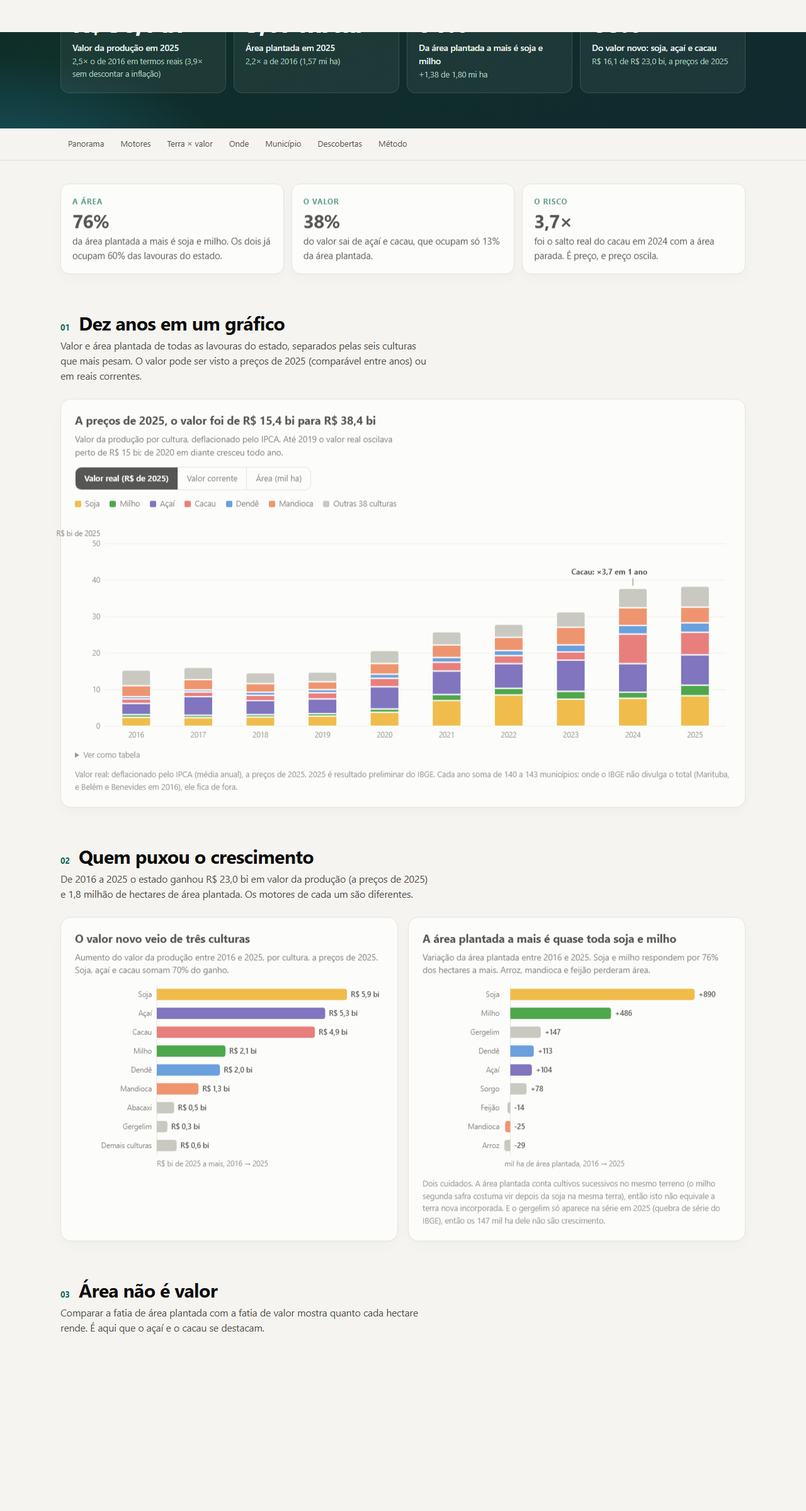
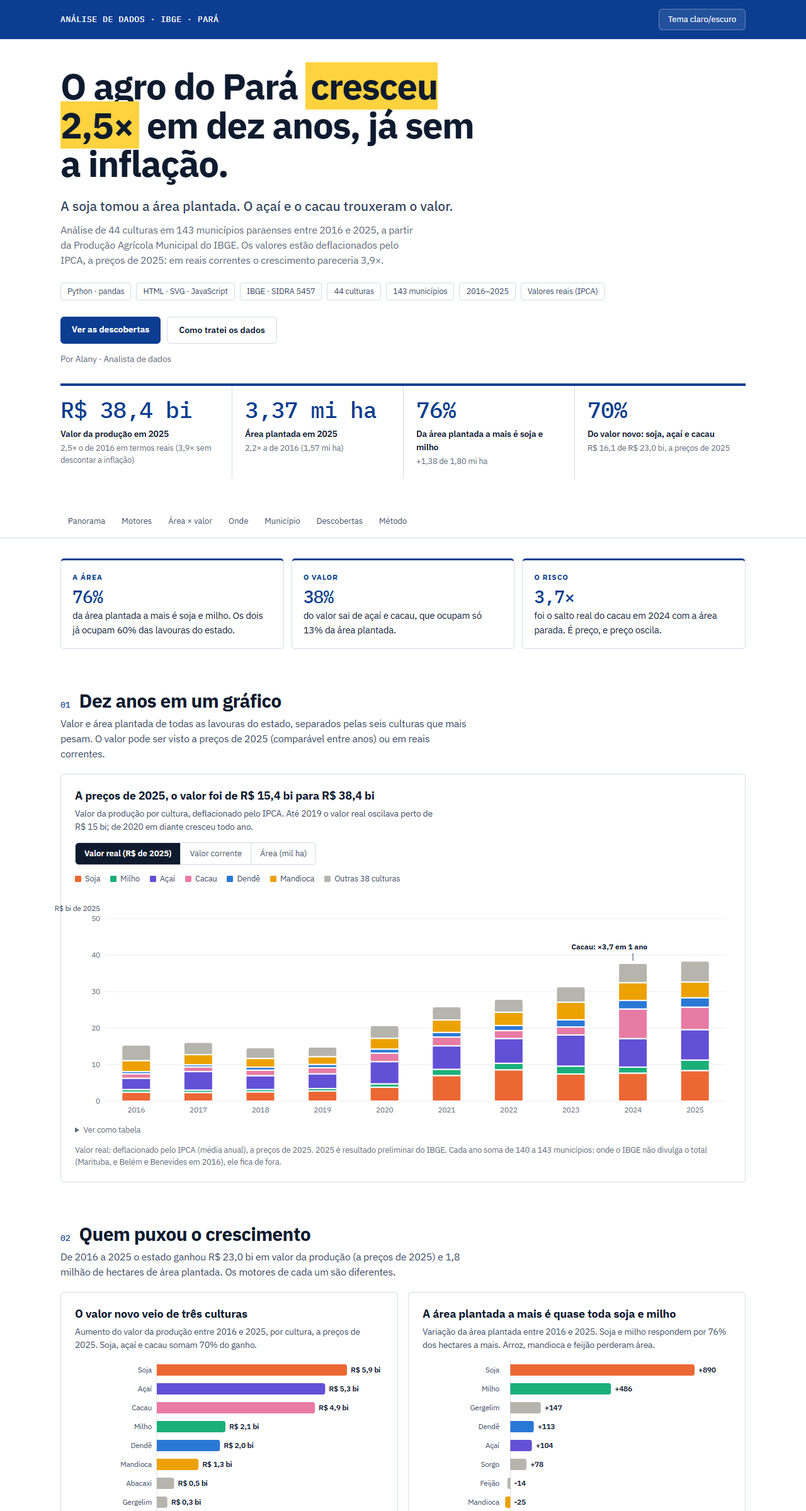
Novo design do dashboard (azul e branco, estilo jornal de dados)
Muda só o visual (cores, fontes, espaçamento); dados e textos iguais.
Refaz capa.png e docs/dashboard.png.

diff --git a/index.html b/index.html
@@ -11,59 +11,64 @@
 <meta property="og:image" content="https://lanybcr.github.io/Analise-de-dados-sobre-o-agro-no-estado-do-Para-/capa.png">
 <meta name="twitter:card" content="summary_large_image">
 <meta property="og:description" content="Dashboard interativo com dados do IBGE: 44 culturas, 143 municípios, 2016–2025. Valores deflacionados pelo IPCA.">
+<link rel="preconnect" href="https://fonts.googleapis.com">
+<link rel="preconnect" href="https://fonts.gstatic.com" crossorigin>
+<link href="https://fonts.googleapis.com/css2?family=IBM+Plex+Sans:wght@400;500;600;700&family=IBM+Plex+Mono:wght@400;500&display=swap" rel="stylesheet">
 <style>
 :root{
   color-scheme:light;
-  --bg:#f5f4f0; --surface:#ffffff; --ink:#0d0d0c; --ink2:#4d4c49; --muted:#6b6a66; --grid:#ebeae6; --line:#dddcd6; --neutral:#c9c8c2;
-  --accent:#0f6b57; --accent-soft:#e3f1ec;
-  --s-soja:#eda100; --s-milho:#008300; --s-acai:#4a3aa7; --s-cacau:#e34948; --s-dende:#2a78d6; --s-mandioca:#eb6834; --s-outras:#b5b4ad;
-  --tag-dado:#184f95; --tag-hip:#8a5300; --shadow:0 1px 2px #0000000a,0 8px 24px #0000000a;
+  --sans:"IBM Plex Sans",system-ui,-apple-system,"Segoe UI",Roboto,sans-serif; --mono:"IBM Plex Mono",ui-monospace,SFMono-Regular,Menlo,Consolas,monospace;
+  --bg:#ffffff; --surface:#ffffff; --ink:#0e1b2e; --ink2:#34475f; --muted:#5b6b80; --grid:#e7ecf3; --line:#d5dce6; --neutral:#a9bde0;
+  --accent:#0b3d91; --accent-soft:#e3ebf8; --cta:#0b3d91; --cta-hover:#072a66; --cta-ink:#ffffff; --hl:#ffd23f; --hl-ink:#0e1b2e;
+  --s-soja:#eb6834; --s-milho:#1baf7a; --s-acai:#6250d6; --s-cacau:#e87ba4; --s-dende:#2a78d6; --s-mandioca:#eda100; --s-outras:#b5b4ad;
+  --tag-dado:#184f95; --tag-hip:#8a5300; --shadow:none;
 }
 @media (prefers-color-scheme:dark){
   :root:where(:not([data-theme="light"])){
     color-scheme:dark;
-    --bg:#0e0e0d; --surface:#1a1a19; --ink:#ffffff; --ink2:#c3c2b7; --muted:#9a998f; --grid:#2a2a28; --line:#33332f; --neutral:#55544f;
-    --accent:#4fc3a1; --accent-soft:#12302a;
-    --s-soja:#c98500; --s-milho:#008300; --s-acai:#9085e9; --s-cacau:#e66767; --s-dende:#3987e5; --s-mandioca:#d95926; --s-outras:#5e5d58;
-    --tag-dado:#86b6ef; --tag-hip:#f0b95a; --shadow:0 1px 2px #0006,0 8px 24px #0004;
+    --bg:#0a1220; --surface:#111c2e; --ink:#ffffff; --ink2:#b9c6d8; --muted:#8a9ab0; --grid:#1e2a3d; --line:#2a3950; --neutral:#4b5d78;
+    --accent:#8fb3f5; --accent-soft:#16264a; --cta:#8fb3f5; --cta-hover:#b3cdfa; --cta-ink:#0a1220; --hl:#ffd23f; --hl-ink:#0e1b2e;
+    --s-soja:#d95926; --s-milho:#199e70; --s-acai:#9085e9; --s-cacau:#d55181; --s-dende:#3987e5; --s-mandioca:#c98500; --s-outras:#5e5d58;
+    --tag-dado:#86b6ef; --tag-hip:#f0b95a; --shadow:none;
   }
 }
 :root[data-theme="dark"]{
   color-scheme:dark;
-  --bg:#0e0e0d; --surface:#1a1a19; --ink:#ffffff; --ink2:#c3c2b7; --muted:#9a998f; --grid:#2a2a28; --line:#33332f; --neutral:#55544f;
-  --accent:#4fc3a1; --accent-soft:#12302a;
-  --s-soja:#c98500; --s-milho:#008300; --s-acai:#9085e9; --s-cacau:#e66767; --s-dende:#3987e5; --s-mandioca:#d95926; --s-outras:#5e5d58;
-  --tag-dado:#86b6ef; --tag-hip:#f0b95a; --shadow:0 1px 2px #0006,0 8px 24px #0004;
+  --bg:#0a1220; --surface:#111c2e; --ink:#ffffff; --ink2:#b9c6d8; --muted:#8a9ab0; --grid:#1e2a3d; --line:#2a3950; --neutral:#4b5d78;
+  --accent:#8fb3f5; --accent-soft:#16264a; --cta:#8fb3f5; --cta-hover:#b3cdfa; --cta-ink:#0a1220; --hl:#ffd23f; --hl-ink:#0e1b2e;
+  --s-soja:#d95926; --s-milho:#199e70; --s-acai:#9085e9; --s-cacau:#d55181; --s-dende:#3987e5; --s-mandioca:#c98500; --s-outras:#5e5d58;
+  --tag-dado:#86b6ef; --tag-hip:#f0b95a; --shadow:none;
 }
 *{box-sizing:border-box}
 html{-webkit-text-size-adjust:100%;scroll-behavior:smooth;scroll-padding-top:64px}
-body{margin:0;background:var(--bg);color:var(--ink);font:15px/1.55 system-ui,-apple-system,"Segoe UI",Roboto,sans-serif}
+body{margin:0;background:var(--bg);color:var(--ink);font:15px/1.55 var(--sans)}
 a{color:inherit}
 .wrap{max-width:1120px;margin:0 auto;padding:0 16px}
 b,strong{font-weight:650}
 
-.hero{background:radial-gradient(900px 420px at 88% -10%,#2f7d63 0,transparent 60%),radial-gradient(700px 380px at 0% 110%,#1c5a6b 0,transparent 55%),linear-gradient(160deg,#0a211d,#0f2f29 60%,#102a2f);color:#f3f5f2;padding:28px 0 56px}
-.hero .top{display:flex;justify-content:space-between;align-items:center;gap:12px;margin-bottom:56px}
-.brand{font-size:12.5px;letter-spacing:.07em;text-transform:uppercase;color:#a9c9bd;font-weight:600}
-.btn{font:inherit;font-size:13px;color:#dfece6;background:#ffffff14;border:1px solid #ffffff2e;border-radius:999px;padding:6px 14px;cursor:pointer}
-.btn:hover{background:#ffffff26}
-.btn:focus-visible,select:focus-visible,.nav a:focus-visible,.cta:focus-visible,.seg button:focus-visible{outline:2px solid #7fd8bd;outline-offset:2px}
-.hero h1{font-size:clamp(32px,5.8vw,60px);line-height:1.04;letter-spacing:-.03em;margin:0 0 20px;font-weight:760;max-width:17ch}
-.hero h1 em{font-style:normal;color:#7fd8bd}
-.hero .lede{font-size:clamp(17px,2.2vw,21px);color:#d6e6df;max-width:58ch;margin:0 0 10px;font-weight:500}
-.hero .lede2{font-size:15.5px;color:#a9c9bd;max-width:62ch;margin:0 0 24px}
+.hero{background:var(--bg);color:var(--ink);padding:0 0 44px}
+.hero .top{display:flex;justify-content:space-between;align-items:center;gap:12px;margin-bottom:44px;padding:14px 0;background:#0b3d91;color:#fff;box-shadow:0 0 0 100vmax #0b3d91;clip-path:inset(0 -100vmax)}
+.brand{font-family:var(--mono);font-size:12.5px;letter-spacing:.07em;text-transform:uppercase;color:#fff;font-weight:500}
+.btn{font:inherit;font-size:13px;color:#fff;background:#ffffff1a;border:1px solid #ffffff4d;border-radius:6px;padding:6px 14px;cursor:pointer}
+.btn:hover{background:#ffffff33}
+.btn:focus-visible,select:focus-visible,.nav a:focus-visible,.cta:focus-visible,.seg button:focus-visible{outline:2px solid var(--accent);outline-offset:2px}
+.hero h1{font-size:clamp(32px,5.6vw,58px);line-height:1.06;letter-spacing:-.025em;margin:0 0 20px;font-weight:700;max-width:20ch}
+.hero h1 em{font-style:normal;background:var(--hl);color:var(--hl-ink);padding:0 .14em}
+.hero .lede{font-size:clamp(17px,2.2vw,21px);color:var(--ink2);max-width:58ch;margin:0 0 10px;font-weight:500}
+.hero .lede2{font-size:15.5px;color:var(--muted);max-width:62ch;margin:0 0 24px}
 .chips{display:flex;flex-wrap:wrap;gap:8px;margin:0 0 26px;padding:0;list-style:none}
-.chips li{font-size:12.5px;color:#cfe3da;background:#ffffff12;border:1px solid #ffffff22;border-radius:999px;padding:3px 12px}
-.ctas{display:flex;flex-wrap:wrap;gap:10px;margin-bottom:44px}
-.cta{display:inline-block;text-decoration:none;font-weight:650;font-size:14px;border-radius:10px;padding:10px 18px}
-.cta.p{background:#7fd8bd;color:#062018}.cta.p:hover{background:#9be6cf}
-.cta.s{border:1px solid #ffffff40;color:#eef6f2}.cta.s:hover{background:#ffffff14}
-.by{font-size:13.5px;color:#a9c9bd;margin:-30px 0 32px}
-.kpis{display:grid;grid-template-columns:repeat(4,1fr);gap:12px}
-.kpi{background:#ffffff0f;border:1px solid #ffffff1f;border-radius:14px;padding:18px}
-.kpi .n{font-size:clamp(28px,3.8vw,40px);font-weight:760;letter-spacing:-.03em;line-height:1.05;font-variant-numeric:tabular-nums}
-.kpi .l{color:#e3efe9;font-size:13.5px;margin-top:8px;font-weight:600}
-.kpi .d{color:#a9c9bd;font-size:12.5px;margin-top:2px}
+.chips li{font-size:12.5px;color:var(--ink2);background:transparent;border:1px solid var(--line);border-radius:4px;padding:3px 10px}
+.ctas{display:flex;flex-wrap:wrap;gap:10px;margin-bottom:40px}
+.cta{display:inline-block;text-decoration:none;font-weight:600;font-size:14px;border-radius:6px;padding:10px 18px}
+.cta.p{background:var(--cta);color:var(--cta-ink)}.cta.p:hover{background:var(--cta-hover)}
+.cta.s{border:1px solid var(--line);color:var(--ink)}.cta.s:hover{background:var(--grid)}
+.by{font-size:13.5px;color:var(--muted);margin:-26px 0 28px}
+.kpis{display:grid;grid-template-columns:repeat(4,1fr);gap:0;border-top:4px solid var(--accent)}
+.kpi{background:none;border:0;border-left:1px solid var(--line);border-radius:0;padding:18px 20px}
+.kpi:first-child{border-left:0;padding-left:0}
+.kpi .n{font-family:var(--mono);font-size:clamp(26px,3.4vw,36px);font-weight:500;letter-spacing:-.02em;line-height:1.1;color:var(--accent);font-variant-numeric:tabular-nums}
+.kpi .l{color:var(--ink);font-size:13.5px;margin-top:8px;font-weight:600}
+.kpi .d{color:var(--muted);font-size:12.5px;margin-top:2px}
 
 .nav{position:sticky;top:0;z-index:20;background:color-mix(in srgb,var(--bg) 88%,transparent);backdrop-filter:blur(10px);-webkit-backdrop-filter:blur(10px);border-bottom:1px solid var(--line)}
 .nav .wrap{display:flex;gap:2px;overflow-x:auto;scrollbar-width:none}
@@ -73,24 +78,24 @@ b,strong{font-weight:650}
 .nav a.on{color:var(--ink);border-bottom-color:var(--accent);font-weight:600}
 
 .tldr{display:grid;grid-template-columns:repeat(3,1fr);gap:12px;margin-top:32px}
-.tldr div{background:var(--surface);border:1px solid var(--line);border-radius:14px;padding:18px;box-shadow:var(--shadow)}
+.tldr div{background:var(--surface);border:1px solid var(--line);border-top:3px solid var(--accent);border-radius:6px;padding:18px;box-shadow:var(--shadow)}
 .tldr b{display:block;font-size:12px;letter-spacing:.07em;text-transform:uppercase;color:var(--accent);margin-bottom:6px}
 .tldr p{margin:0;font-size:14.5px}
-.tldr .big{display:block;font-size:30px;font-weight:760;letter-spacing:-.03em;line-height:1.1;margin-bottom:4px}
+.tldr .big{display:block;font-family:var(--mono);font-size:28px;font-weight:500;color:var(--accent);letter-spacing:-.03em;line-height:1.1;margin-bottom:4px}
 
 section.sec{padding-top:64px}
 .sec-h{display:flex;gap:14px;align-items:baseline;margin:0 0 6px}
-.sec-h .no{font-size:13px;font-weight:700;color:var(--accent);font-variant-numeric:tabular-nums}
+.sec-h .no{font-family:var(--mono);font-size:13px;font-weight:500;color:var(--accent);font-variant-numeric:tabular-nums}
 .sec-h h2{margin:0;font-size:clamp(22px,3vw,30px);letter-spacing:-.02em;line-height:1.2;font-weight:720}
 .sec-lead{margin:0 0 20px;color:var(--ink2);max-width:70ch;font-size:15.5px}
 .grid{display:grid;gap:16px}
 .g2{grid-template-columns:1fr 1fr}
-.card{background:var(--surface);border:1px solid var(--line);border-radius:16px;padding:22px;min-width:0;box-shadow:var(--shadow)}
+.card{background:var(--surface);border:1px solid var(--line);border-radius:6px;padding:22px;min-width:0;box-shadow:var(--shadow)}
 .card h3{margin:0 0 6px;font-size:18px;line-height:1.3;font-weight:700;letter-spacing:-.01em}
 .card .sub{margin:0 0 14px;color:var(--ink2);font-size:13.5px;max-width:72ch}
 .ctrl{display:flex;flex-wrap:wrap;gap:8px;align-items:center;margin:0 0 12px}
 .ctrl label{font-size:13px;color:var(--ink2)}
-.seg{display:inline-flex;border:1px solid var(--line);border-radius:10px;overflow:hidden}
+.seg{display:inline-flex;border:1px solid var(--line);border-radius:6px;overflow:hidden}
 .seg button{font:inherit;font-size:13px;background:transparent;color:var(--ink2);border:0;padding:7px 14px;cursor:pointer}
 .seg button[aria-pressed="true"]{background:var(--ink);color:var(--surface);font-weight:600}
 .seg button+button{border-left:1px solid var(--line)}
@@ -116,22 +121,22 @@ thead th{position:sticky;top:0;background:var(--surface);color:var(--ink2)}
 .sm .k{color:var(--ink2);font-size:12.5px;margin:0 0 4px}
 
 .finds{display:grid;grid-template-columns:repeat(2,1fr);gap:14px}
-.find{background:var(--surface);border:1px solid var(--line);border-left:4px solid var(--tag-dado);border-radius:14px;padding:18px 18px 18px 20px;box-shadow:var(--shadow)}
+.find{background:var(--surface);border:1px solid var(--line);border-left:4px solid var(--tag-dado);border-radius:6px;padding:18px 18px 18px 20px;box-shadow:var(--shadow)}
 .find.h{border-left-color:var(--tag-hip)}
-.find .num{font-size:32px;font-weight:760;letter-spacing:-.03em;line-height:1.05}
+.find .num{font-family:var(--mono);font-size:30px;font-weight:500;letter-spacing:-.03em;line-height:1.05}
 .find h4{margin:8px 0 6px;font-size:15.5px;line-height:1.35}
 .find p{margin:0;color:var(--ink2);font-size:14px}
 .tag{display:inline-block;font-size:11px;font-weight:700;letter-spacing:.05em;text-transform:uppercase;border:1px solid currentColor;border-radius:999px;padding:1px 9px;margin-bottom:8px}
 .tag.d{color:var(--tag-dado)}.tag.h{color:var(--tag-hip)}
 
 .steps{display:grid;grid-template-columns:repeat(4,1fr);gap:14px}
-.step{background:var(--surface);border:1px solid var(--line);border-radius:14px;padding:18px;box-shadow:var(--shadow)}
+.step{background:var(--surface);border:1px solid var(--line);border-radius:6px;padding:18px;box-shadow:var(--shadow)}
 .step .n{width:28px;height:28px;border-radius:50%;background:var(--accent-soft);color:var(--accent);font-weight:700;display:grid;place-items:center;font-size:13px;margin-bottom:10px}
 .step h4{margin:0 0 6px;font-size:15.5px}
 .step p{margin:0;font-size:13.5px;color:var(--ink2)}
-.step .big{font-size:22px;font-weight:760;color:var(--ink);letter-spacing:-.02em;display:block;margin-bottom:2px}
+.step .big{font-family:var(--mono);font-size:21px;font-weight:500;color:var(--ink);letter-spacing:-.02em;display:block;margin-bottom:2px}
 .ba{display:grid;grid-template-columns:1fr auto 1fr;gap:14px;align-items:center;margin-top:14px}
-.ba>div{background:var(--surface);border:1px solid var(--line);border-radius:14px;padding:16px}
+.ba>div{background:var(--surface);border:1px solid var(--line);border-radius:6px;padding:16px}
 .ba .arr{background:none;border:0;padding:0;font-size:24px;color:var(--accent);text-align:center}
 .ba b{display:block;font-size:12px;letter-spacing:.07em;text-transform:uppercase;color:var(--muted);margin-bottom:6px}
 .ba p{margin:0;font-size:13.5px;color:var(--ink2)}
@@ -140,7 +145,7 @@ thead th{position:sticky;top:0;background:var(--surface);color:var(--ink2)}
 footer{margin-top:72px;padding:28px 0 40px;border-top:1px solid var(--line);color:var(--muted);font-size:13px}
 footer .row{display:flex;justify-content:space-between;gap:16px;flex-wrap:wrap}
 footer a{color:var(--accent);text-decoration:none;font-weight:600;margin-right:14px}
-#tip{position:fixed;z-index:30;pointer-events:none;background:var(--surface);color:var(--ink);border:1px solid var(--line);border-radius:10px;padding:9px 11px;font-size:12.5px;box-shadow:0 8px 24px #0004;opacity:0;transition:opacity .08s;max-width:280px}
+#tip{position:fixed;z-index:30;pointer-events:none;background:var(--surface);color:var(--ink);border:1px solid var(--line);border-radius:6px;padding:9px 11px;font-size:12.5px;box-shadow:0 8px 24px #0004;opacity:0;transition:opacity .08s;max-width:280px}
 #tip b{display:block;margin-bottom:4px}
 #tip .r{display:flex;justify-content:space-between;gap:16px;color:var(--ink2)}
 #tip .r span:last-child{color:var(--ink);font-variant-numeric:tabular-nums}
@@ -150,6 +155,8 @@ footer a{color:var(--accent);text-decoration:none;font-weight:600;margin-right:1
 @media (max-width:900px){.sm{grid-template-columns:1fr 1fr}.steps{grid-template-columns:1fr 1fr}}
 @media (max-width:760px){
   .kpis{grid-template-columns:1fr 1fr}
+  .kpi:nth-child(odd){border-left:0;padding-left:0}
+  .kpi:nth-child(n+3){border-top:1px solid var(--line)}
   .tldr,.steps{grid-template-columns:1fr}
   .g2,.sm,.finds{grid-template-columns:1fr}
   .qa{columns:1}

diff --git a/src/dashboard_template.html b/src/dashboard_template.html
@@ -11,59 +11,64 @@
 <meta property="og:image" content="https://lanybcr.github.io/Analise-de-dados-sobre-o-agro-no-estado-do-Para-/capa.png">
 <meta name="twitter:card" content="summary_large_image">
 <meta property="og:description" content="Dashboard interativo com dados do IBGE: 44 culturas, 143 municípios, 2016–2025. Valores deflacionados pelo IPCA.">
+<link rel="preconnect" href="https://fonts.googleapis.com">
+<link rel="preconnect" href="https://fonts.gstatic.com" crossorigin>
+<link href="https://fonts.googleapis.com/css2?family=IBM+Plex+Sans:wght@400;500;600;700&family=IBM+Plex+Mono:wght@400;500&display=swap" rel="stylesheet">
 <style>
 :root{
   color-scheme:light;
-  --bg:#f5f4f0; --surface:#ffffff; --ink:#0d0d0c; --ink2:#4d4c49; --muted:#6b6a66; --grid:#ebeae6; --line:#dddcd6; --neutral:#c9c8c2;
-  --accent:#0f6b57; --accent-soft:#e3f1ec;
-  --s-soja:#eda100; --s-milho:#008300; --s-acai:#4a3aa7; --s-cacau:#e34948; --s-dende:#2a78d6; --s-mandioca:#eb6834; --s-outras:#b5b4ad;
-  --tag-dado:#184f95; --tag-hip:#8a5300; --shadow:0 1px 2px #0000000a,0 8px 24px #0000000a;
+  --sans:"IBM Plex Sans",system-ui,-apple-system,"Segoe UI",Roboto,sans-serif; --mono:"IBM Plex Mono",ui-monospace,SFMono-Regular,Menlo,Consolas,monospace;
+  --bg:#ffffff; --surface:#ffffff; --ink:#0e1b2e; --ink2:#34475f; --muted:#5b6b80; --grid:#e7ecf3; --line:#d5dce6; --neutral:#a9bde0;
+  --accent:#0b3d91; --accent-soft:#e3ebf8; --cta:#0b3d91; --cta-hover:#072a66; --cta-ink:#ffffff; --hl:#ffd23f; --hl-ink:#0e1b2e;
+  --s-soja:#eb6834; --s-milho:#1baf7a; --s-acai:#6250d6; --s-cacau:#e87ba4; --s-dende:#2a78d6; --s-mandioca:#eda100; --s-outras:#b5b4ad;
+  --tag-dado:#184f95; --tag-hip:#8a5300; --shadow:none;
 }
 @media (prefers-color-scheme:dark){
   :root:where(:not([data-theme="light"])){
     color-scheme:dark;
-    --bg:#0e0e0d; --surface:#1a1a19; --ink:#ffffff; --ink2:#c3c2b7; --muted:#9a998f; --grid:#2a2a28; --line:#33332f; --neutral:#55544f;
-    --accent:#4fc3a1; --accent-soft:#12302a;
-    --s-soja:#c98500; --s-milho:#008300; --s-acai:#9085e9; --s-cacau:#e66767; --s-dende:#3987e5; --s-mandioca:#d95926; --s-outras:#5e5d58;
-    --tag-dado:#86b6ef; --tag-hip:#f0b95a; --shadow:0 1px 2px #0006,0 8px 24px #0004;
+    --bg:#0a1220; --surface:#111c2e; --ink:#ffffff; --ink2:#b9c6d8; --muted:#8a9ab0; --grid:#1e2a3d; --line:#2a3950; --neutral:#4b5d78;
+    --accent:#8fb3f5; --accent-soft:#16264a; --cta:#8fb3f5; --cta-hover:#b3cdfa; --cta-ink:#0a1220; --hl:#ffd23f; --hl-ink:#0e1b2e;
+    --s-soja:#d95926; --s-milho:#199e70; --s-acai:#9085e9; --s-cacau:#d55181; --s-dende:#3987e5; --s-mandioca:#c98500; --s-outras:#5e5d58;
+    --tag-dado:#86b6ef; --tag-hip:#f0b95a; --shadow:none;
   }
 }
 :root[data-theme="dark"]{
   color-scheme:dark;
-  --bg:#0e0e0d; --surface:#1a1a19; --ink:#ffffff; --ink2:#c3c2b7; --muted:#9a998f; --grid:#2a2a28; --line:#33332f; --neutral:#55544f;
-  --accent:#4fc3a1; --accent-soft:#12302a;
-  --s-soja:#c98500; --s-milho:#008300; --s-acai:#9085e9; --s-cacau:#e66767; --s-dende:#3987e5; --s-mandioca:#d95926; --s-outras:#5e5d58;
-  --tag-dado:#86b6ef; --tag-hip:#f0b95a; --shadow:0 1px 2px #0006,0 8px 24px #0004;
+  --bg:#0a1220; --surface:#111c2e; --ink:#ffffff; --ink2:#b9c6d8; --muted:#8a9ab0; --grid:#1e2a3d; --line:#2a3950; --neutral:#4b5d78;
+  --accent:#8fb3f5; --accent-soft:#16264a; --cta:#8fb3f5; --cta-hover:#b3cdfa; --cta-ink:#0a1220; --hl:#ffd23f; --hl-ink:#0e1b2e;
+  --s-soja:#d95926; --s-milho:#199e70; --s-acai:#9085e9; --s-cacau:#d55181; --s-dende:#3987e5; --s-mandioca:#c98500; --s-outras:#5e5d58;
+  --tag-dado:#86b6ef; --tag-hip:#f0b95a; --shadow:none;
 }
 *{box-sizing:border-box}
 html{-webkit-text-size-adjust:100%;scroll-behavior:smooth;scroll-padding-top:64px}
-body{margin:0;background:var(--bg);color:var(--ink);font:15px/1.55 system-ui,-apple-system,"Segoe UI",Roboto,sans-serif}
+body{margin:0;background:var(--bg);color:var(--ink);font:15px/1.55 var(--sans)}
 a{color:inherit}
 .wrap{max-width:1120px;margin:0 auto;padding:0 16px}
 b,strong{font-weight:650}
 
-.hero{background:radial-gradient(900px 420px at 88% -10%,#2f7d63 0,transparent 60%),radial-gradient(700px 380px at 0% 110%,#1c5a6b 0,transparent 55%),linear-gradient(160deg,#0a211d,#0f2f29 60%,#102a2f);color:#f3f5f2;padding:28px 0 56px}
-.hero .top{display:flex;justify-content:space-between;align-items:center;gap:12px;margin-bottom:56px}
-.brand{font-size:12.5px;letter-spacing:.07em;text-transform:uppercase;color:#a9c9bd;font-weight:600}
-.btn{font:inherit;font-size:13px;color:#dfece6;background:#ffffff14;border:1px solid #ffffff2e;border-radius:999px;padding:6px 14px;cursor:pointer}
-.btn:hover{background:#ffffff26}
-.btn:focus-visible,select:focus-visible,.nav a:focus-visible,.cta:focus-visible,.seg button:focus-visible{outline:2px solid #7fd8bd;outline-offset:2px}
-.hero h1{font-size:clamp(32px,5.8vw,60px);line-height:1.04;letter-spacing:-.03em;margin:0 0 20px;font-weight:760;max-width:17ch}
-.hero h1 em{font-style:normal;color:#7fd8bd}
-.hero .lede{font-size:clamp(17px,2.2vw,21px);color:#d6e6df;max-width:58ch;margin:0 0 10px;font-weight:500}
-.hero .lede2{font-size:15.5px;color:#a9c9bd;max-width:62ch;margin:0 0 24px}
+.hero{background:var(--bg);color:var(--ink);padding:0 0 44px}
+.hero .top{display:flex;justify-content:space-between;align-items:center;gap:12px;margin-bottom:44px;padding:14px 0;background:#0b3d91;color:#fff;box-shadow:0 0 0 100vmax #0b3d91;clip-path:inset(0 -100vmax)}
+.brand{font-family:var(--mono);font-size:12.5px;letter-spacing:.07em;text-transform:uppercase;color:#fff;font-weight:500}
+.btn{font:inherit;font-size:13px;color:#fff;background:#ffffff1a;border:1px solid #ffffff4d;border-radius:6px;padding:6px 14px;cursor:pointer}
+.btn:hover{background:#ffffff33}
+.btn:focus-visible,select:focus-visible,.nav a:focus-visible,.cta:focus-visible,.seg button:focus-visible{outline:2px solid var(--accent);outline-offset:2px}
+.hero h1{font-size:clamp(32px,5.6vw,58px);line-height:1.06;letter-spacing:-.025em;margin:0 0 20px;font-weight:700;max-width:20ch}
+.hero h1 em{font-style:normal;background:var(--hl);color:var(--hl-ink);padding:0 .14em}
+.hero .lede{font-size:clamp(17px,2.2vw,21px);color:var(--ink2);max-width:58ch;margin:0 0 10px;font-weight:500}
+.hero .lede2{font-size:15.5px;color:var(--muted);max-width:62ch;margin:0 0 24px}
 .chips{display:flex;flex-wrap:wrap;gap:8px;margin:0 0 26px;padding:0;list-style:none}
-.chips li{font-size:12.5px;color:#cfe3da;background:#ffffff12;border:1px solid #ffffff22;border-radius:999px;padding:3px 12px}
-.ctas{display:flex;flex-wrap:wrap;gap:10px;margin-bottom:44px}
-.cta{display:inline-block;text-decoration:none;font-weight:650;font-size:14px;border-radius:10px;padding:10px 18px}
-.cta.p{background:#7fd8bd;color:#062018}.cta.p:hover{background:#9be6cf}
-.cta.s{border:1px solid #ffffff40;color:#eef6f2}.cta.s:hover{background:#ffffff14}
-.by{font-size:13.5px;color:#a9c9bd;margin:-30px 0 32px}
-.kpis{display:grid;grid-template-columns:repeat(4,1fr);gap:12px}
-.kpi{background:#ffffff0f;border:1px solid #ffffff1f;border-radius:14px;padding:18px}
-.kpi .n{font-size:clamp(28px,3.8vw,40px);font-weight:760;letter-spacing:-.03em;line-height:1.05;font-variant-numeric:tabular-nums}
-.kpi .l{color:#e3efe9;font-size:13.5px;margin-top:8px;font-weight:600}
-.kpi .d{color:#a9c9bd;font-size:12.5px;margin-top:2px}
+.chips li{font-size:12.5px;color:var(--ink2);background:transparent;border:1px solid var(--line);border-radius:4px;padding:3px 10px}
+.ctas{display:flex;flex-wrap:wrap;gap:10px;margin-bottom:40px}
+.cta{display:inline-block;text-decoration:none;font-weight:600;font-size:14px;border-radius:6px;padding:10px 18px}
+.cta.p{background:var(--cta);color:var(--cta-ink)}.cta.p:hover{background:var(--cta-hover)}
+.cta.s{border:1px solid var(--line);color:var(--ink)}.cta.s:hover{background:var(--grid)}
+.by{font-size:13.5px;color:var(--muted);margin:-26px 0 28px}
+.kpis{display:grid;grid-template-columns:repeat(4,1fr);gap:0;border-top:4px solid var(--accent)}
+.kpi{background:none;border:0;border-left:1px solid var(--line);border-radius:0;padding:18px 20px}
+.kpi:first-child{border-left:0;padding-left:0}
+.kpi .n{font-family:var(--mono);font-size:clamp(26px,3.4vw,36px);font-weight:500;letter-spacing:-.02em;line-height:1.1;color:var(--accent);font-variant-numeric:tabular-nums}
+.kpi .l{color:var(--ink);font-size:13.5px;margin-top:8px;font-weight:600}
+.kpi .d{color:var(--muted);font-size:12.5px;margin-top:2px}
 
 .nav{position:sticky;top:0;z-index:20;background:color-mix(in srgb,var(--bg) 88%,transparent);backdrop-filter:blur(10px);-webkit-backdrop-filter:blur(10px);border-bottom:1px solid var(--line)}
 .nav .wrap{display:flex;gap:2px;overflow-x:auto;scrollbar-width:none}
@@ -73,24 +78,24 @@ b,strong{font-weight:650}
 .nav a.on{color:var(--ink);border-bottom-color:var(--accent);font-weight:600}
 
 .tldr{display:grid;grid-template-columns:repeat(3,1fr);gap:12px;margin-top:32px}
-.tldr div{background:var(--surface);border:1px solid var(--line);border-radius:14px;padding:18px;box-shadow:var(--shadow)}
+.tldr div{background:var(--surface);border:1px solid var(--line);border-top:3px solid var(--accent);border-radius:6px;padding:18px;box-shadow:var(--shadow)}
 .tldr b{display:block;font-size:12px;letter-spacing:.07em;text-transform:uppercase;color:var(--accent);margin-bottom:6px}
 .tldr p{margin:0;font-size:14.5px}
-.tldr .big{display:block;font-size:30px;font-weight:760;letter-spacing:-.03em;line-height:1.1;margin-bottom:4px}
+.tldr .big{display:block;font-family:var(--mono);font-size:28px;font-weight:500;color:var(--accent);letter-spacing:-.03em;line-height:1.1;margin-bottom:4px}
 
 section.sec{padding-top:64px}
 .sec-h{display:flex;gap:14px;align-items:baseline;margin:0 0 6px}
-.sec-h .no{font-size:13px;font-weight:700;color:var(--accent);font-variant-numeric:tabular-nums}
+.sec-h .no{font-family:var(--mono);font-size:13px;font-weight:500;color:var(--accent);font-variant-numeric:tabular-nums}
 .sec-h h2{margin:0;font-size:clamp(22px,3vw,30px);letter-spacing:-.02em;line-height:1.2;font-weight:720}
 .sec-lead{margin:0 0 20px;color:var(--ink2);max-width:70ch;font-size:15.5px}
 .grid{display:grid;gap:16px}
 .g2{grid-template-columns:1fr 1fr}
-.card{background:var(--surface);border:1px solid var(--line);border-radius:16px;padding:22px;min-width:0;box-shadow:var(--shadow)}
+.card{background:var(--surface);border:1px solid var(--line);border-radius:6px;padding:22px;min-width:0;box-shadow:var(--shadow)}
 .card h3{margin:0 0 6px;font-size:18px;line-height:1.3;font-weight:700;letter-spacing:-.01em}
 .card .sub{margin:0 0 14px;color:var(--ink2);font-size:13.5px;max-width:72ch}
 .ctrl{display:flex;flex-wrap:wrap;gap:8px;align-items:center;margin:0 0 12px}
 .ctrl label{font-size:13px;color:var(--ink2)}
-.seg{display:inline-flex;border:1px solid var(--line);border-radius:10px;overflow:hidden}
+.seg{display:inline-flex;border:1px solid var(--line);border-radius:6px;overflow:hidden}
 .seg button{font:inherit;font-size:13px;background:transparent;color:var(--ink2);border:0;padding:7px 14px;cursor:pointer}
 .seg button[aria-pressed="true"]{background:var(--ink);color:var(--surface);font-weight:600}
 .seg button+button{border-left:1px solid var(--line)}
@@ -116,22 +121,22 @@ thead th{position:sticky;top:0;background:var(--surface);color:var(--ink2)}
 .sm .k{color:var(--ink2);font-size:12.5px;margin:0 0 4px}
 
 .finds{display:grid;grid-template-columns:repeat(2,1fr);gap:14px}
-.find{background:var(--surface);border:1px solid var(--line);border-left:4px solid var(--tag-dado);border-radius:14px;padding:18px 18px 18px 20px;box-shadow:var(--shadow)}
+.find{background:var(--surface);border:1px solid var(--line);border-left:4px solid var(--tag-dado);border-radius:6px;padding:18px 18px 18px 20px;box-shadow:var(--shadow)}
 .find.h{border-left-color:var(--tag-hip)}
-.find .num{font-size:32px;font-weight:760;letter-spacing:-.03em;line-height:1.05}
+.find .num{font-family:var(--mono);font-size:30px;font-weight:500;letter-spacing:-.03em;line-height:1.05}
 .find h4{margin:8px 0 6px;font-size:15.5px;line-height:1.35}
 .find p{margin:0;color:var(--ink2);font-size:14px}
 .tag{display:inline-block;font-size:11px;font-weight:700;letter-spacing:.05em;text-transform:uppercase;border:1px solid currentColor;border-radius:999px;padding:1px 9px;margin-bottom:8px}
 .tag.d{color:var(--tag-dado)}.tag.h{color:var(--tag-hip)}
 
 .steps{display:grid;grid-template-columns:repeat(4,1fr);gap:14px}
-.step{background:var(--surface);border:1px solid var(--line);border-radius:14px;padding:18px;box-shadow:var(--shadow)}
+.step{background:var(--surface);border:1px solid var(--line);border-radius:6px;padding:18px;box-shadow:var(--shadow)}
 .step .n{width:28px;height:28px;border-radius:50%;background:var(--accent-soft);color:var(--accent);font-weight:700;display:grid;place-items:center;font-size:13px;margin-bottom:10px}
 .step h4{margin:0 0 6px;font-size:15.5px}
 .step p{margin:0;font-size:13.5px;color:var(--ink2)}
-.step .big{font-size:22px;font-weight:760;color:var(--ink);letter-spacing:-.02em;display:block;margin-bottom:2px}
+.step .big{font-family:var(--mono);font-size:21px;font-weight:500;color:var(--ink);letter-spacing:-.02em;display:block;margin-bottom:2px}
 .ba{display:grid;grid-template-columns:1fr auto 1fr;gap:14px;align-items:center;margin-top:14px}
-.ba>div{background:var(--surface);border:1px solid var(--line);border-radius:14px;padding:16px}
+.ba>div{background:var(--surface);border:1px solid var(--line);border-radius:6px;padding:16px}
 .ba .arr{background:none;border:0;padding:0;font-size:24px;color:var(--accent);text-align:center}
 .ba b{display:block;font-size:12px;letter-spacing:.07em;text-transform:uppercase;color:var(--muted);margin-bottom:6px}
 .ba p{margin:0;font-size:13.5px;color:var(--ink2)}
@@ -140,7 +145,7 @@ thead th{position:sticky;top:0;background:var(--surface);color:var(--ink2)}
 footer{margin-top:72px;padding:28px 0 40px;border-top:1px solid var(--line);color:var(--muted);font-size:13px}
 footer .row{display:flex;justify-content:space-between;gap:16px;flex-wrap:wrap}
 footer a{color:var(--accent);text-decoration:none;font-weight:600;margin-right:14px}
-#tip{position:fixed;z-index:30;pointer-events:none;background:var(--surface);color:var(--ink);border:1px solid var(--line);border-radius:10px;padding:9px 11px;font-size:12.5px;box-shadow:0 8px 24px #0004;opacity:0;transition:opacity .08s;max-width:280px}
+#tip{position:fixed;z-index:30;pointer-events:none;background:var(--surface);color:var(--ink);border:1px solid var(--line);border-radius:6px;padding:9px 11px;font-size:12.5px;box-shadow:0 8px 24px #0004;opacity:0;transition:opacity .08s;max-width:280px}
 #tip b{display:block;margin-bottom:4px}
 #tip .r{display:flex;justify-content:space-between;gap:16px;color:var(--ink2)}
 #tip .r span:last-child{color:var(--ink);font-variant-numeric:tabular-nums}
@@ -150,6 +155,8 @@ footer a{color:var(--accent);text-decoration:none;font-weight:600;margin-right:1
 @media (max-width:900px){.sm{grid-template-columns:1fr 1fr}.steps{grid-template-columns:1fr 1fr}}
 @media (max-width:760px){
   .kpis{grid-template-columns:1fr 1fr}
+  .kpi:nth-child(odd){border-left:0;padding-left:0}
+  .kpi:nth-child(n+3){border-top:1px solid var(--line)}
   .tldr,.steps{grid-template-columns:1fr}
   .g2,.sm,.finds{grid-template-columns:1fr}
   .qa{columns:1}
